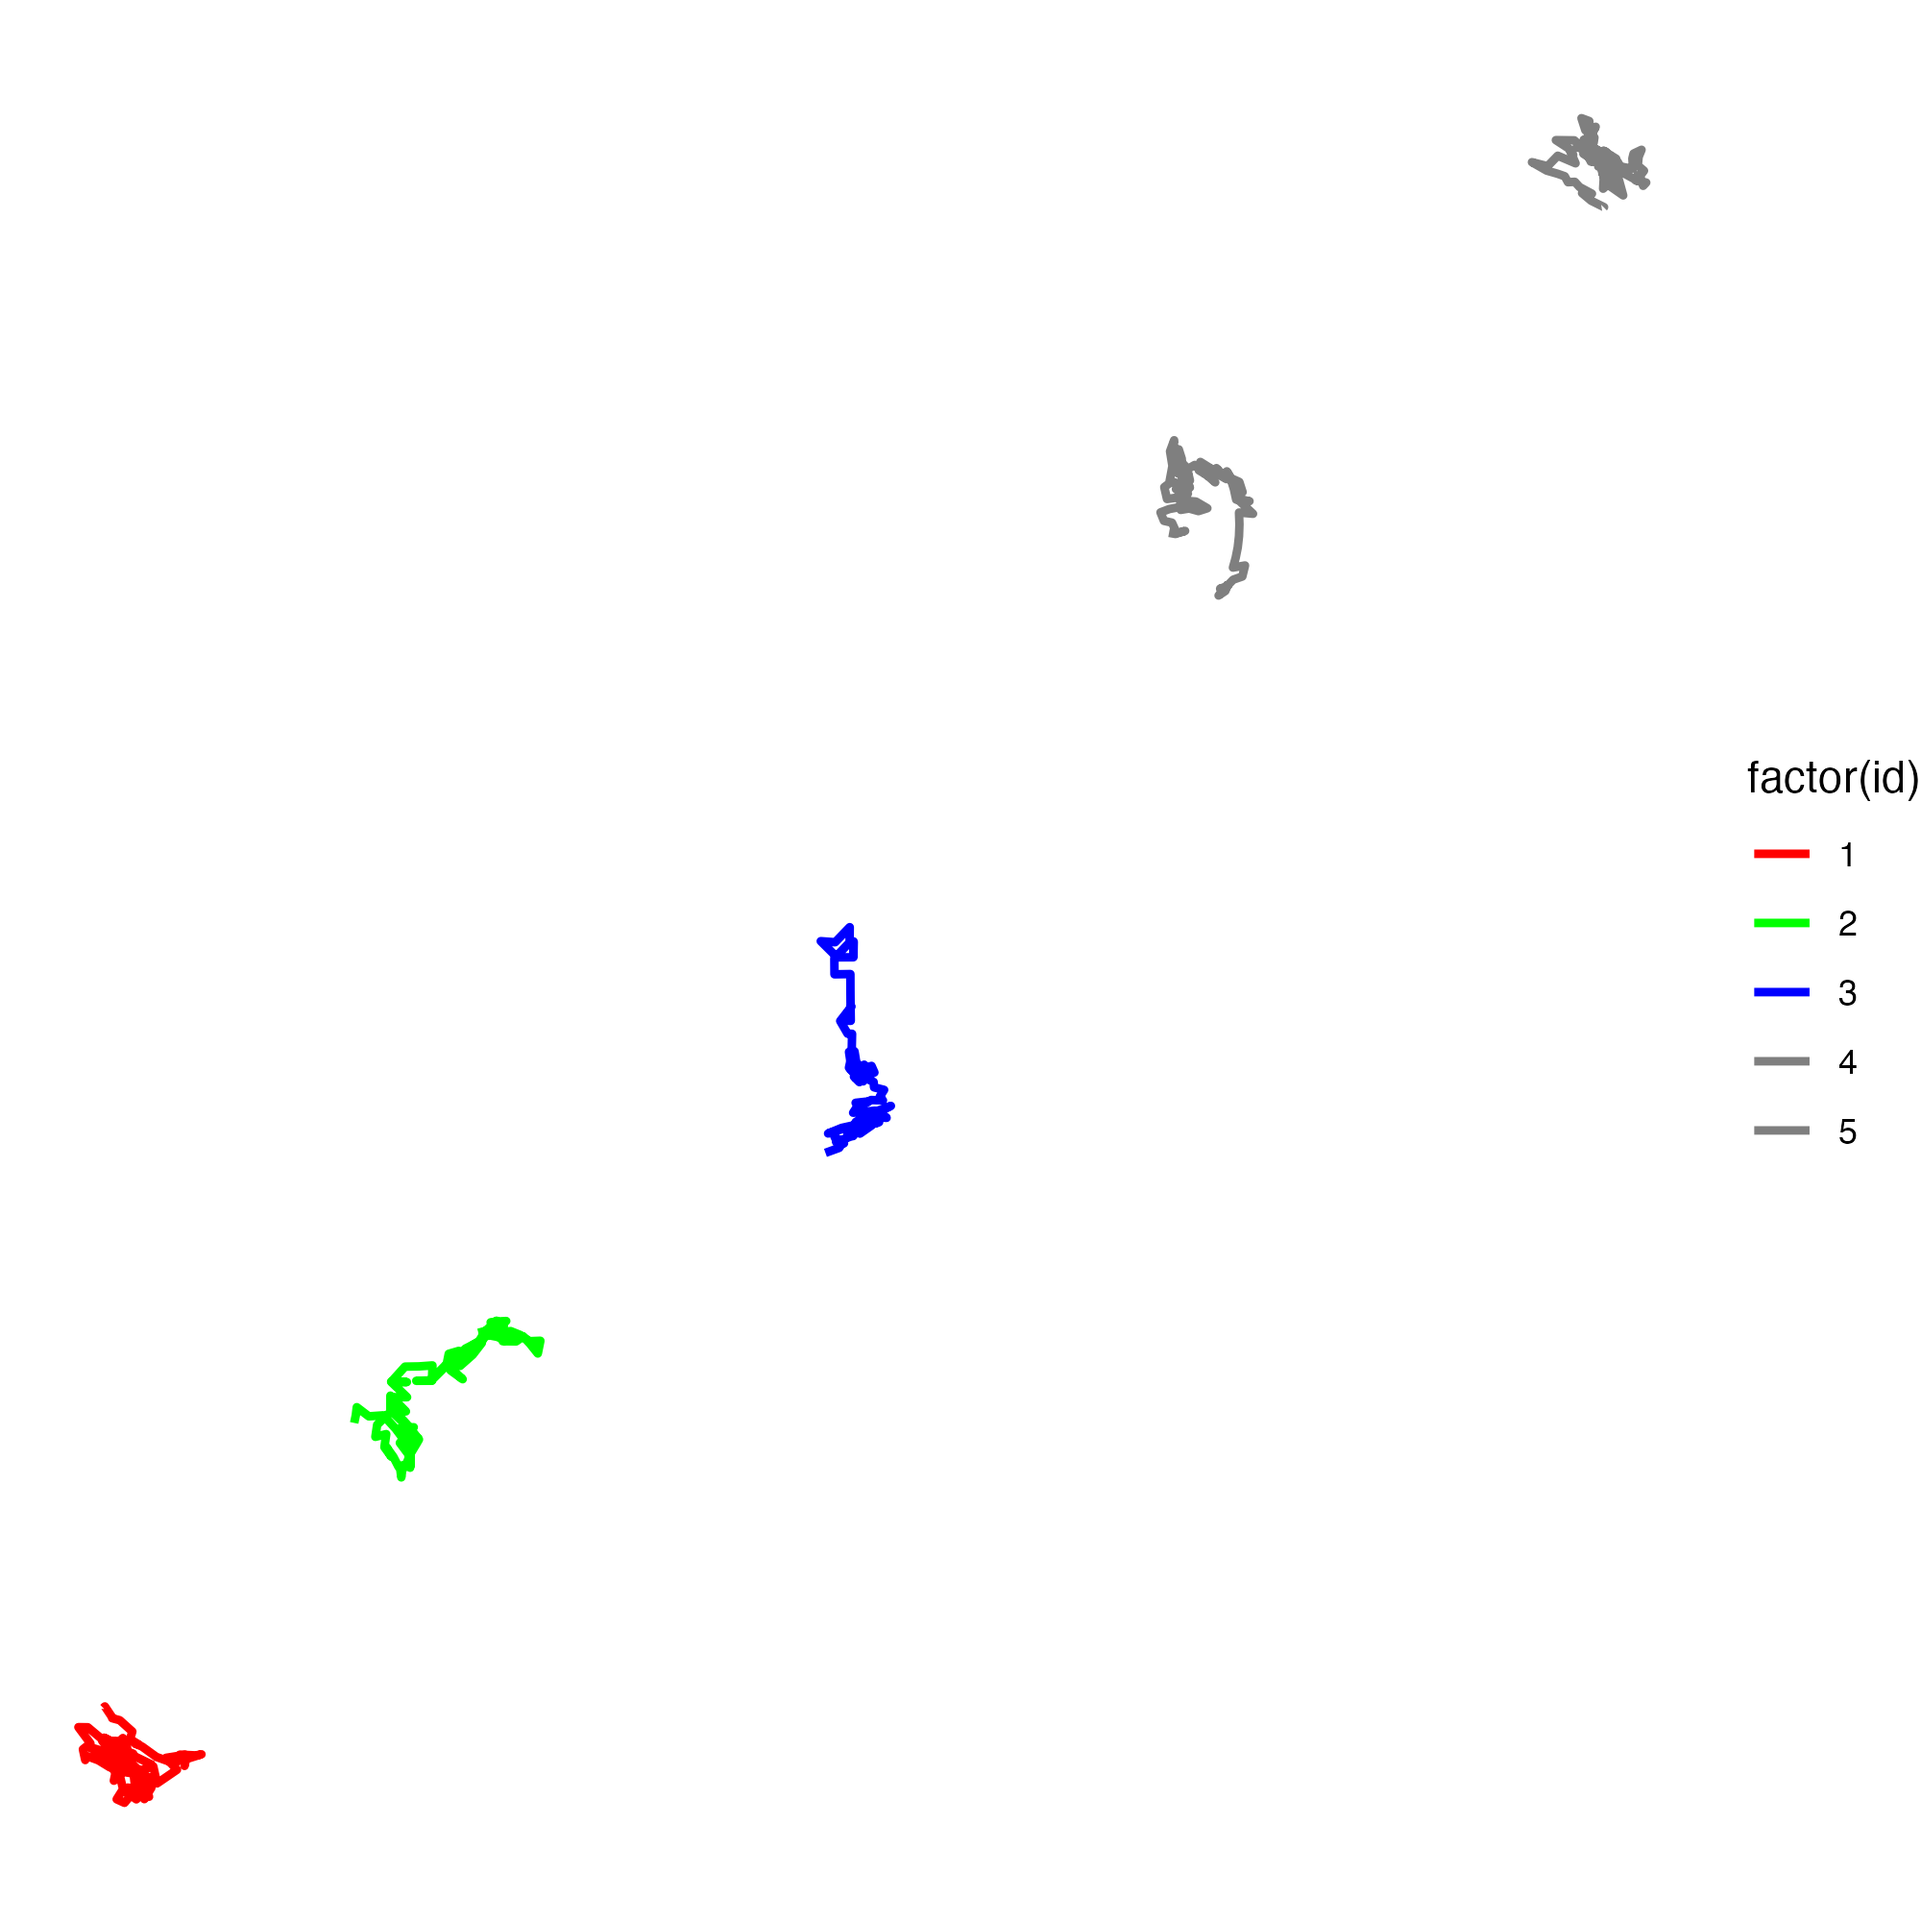
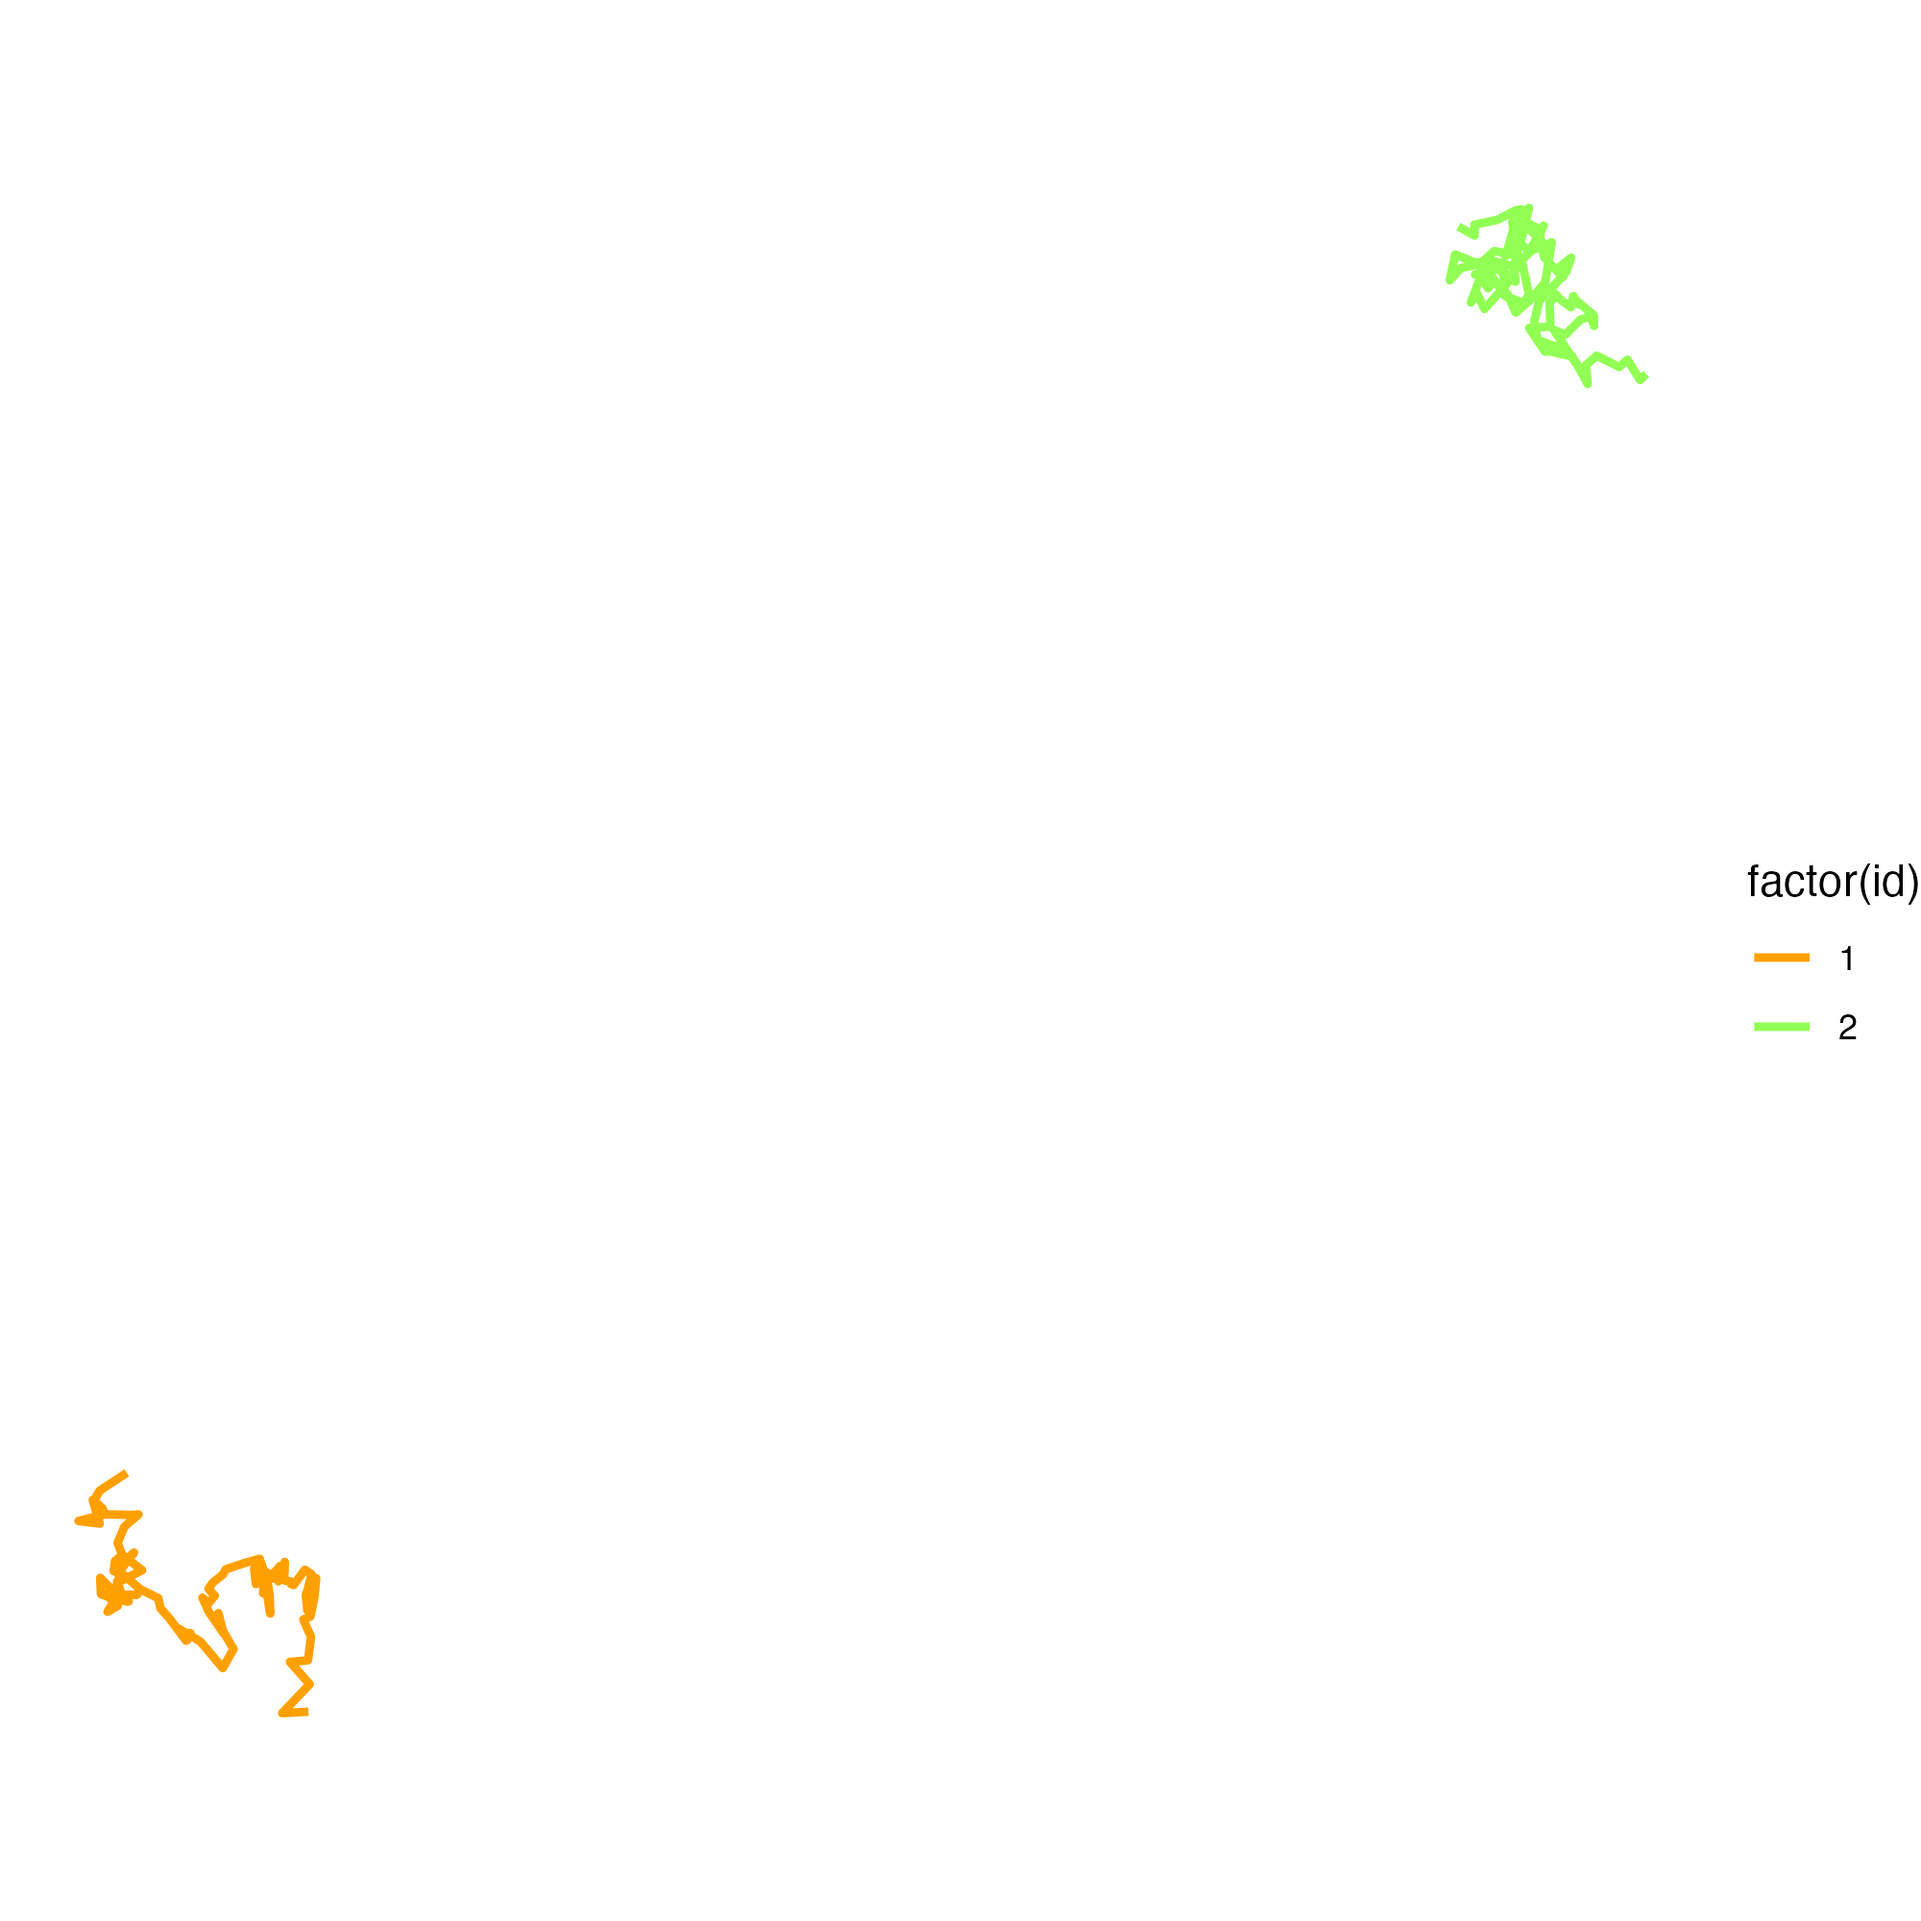
a bunch of updates to the exercises and adding them all into a quarto

diff --git a/materials/unbox-fast.cpp b/materials/unbox-fast.cpp
@@ -1,59 +1,84 @@
+
 #include <Rcpp.h>
 #include <iostream>
-using namespace Rcpp;
-using namespace std;
-
-// [[Rcpp::export]]
-NumericMatrix unboxer_rcpp(int iterations, int layers) {
+  using namespace Rcpp;
+  using namespace std;
   
-  // variables
-  NumericMatrix pts(iterations, 3); 
-  NumericMatrix cff(9, layers);
-  int r, f;
-  double x, y, z, s;
-  
-  // coefficients
-  for(int i = 0; i < 9; i++) {
-    for(int j = 0; j < layers; j++) {
-      cff(i,j) = R::runif(-1,1);
+  // [[Rcpp::export]]
+  NumericMatrix unboxer_grid(int iterations, 
+                             int layers,
+                             int pixels, 
+                             double border) {
+    
+    // variables
+    NumericMatrix image(pixels, pixels); 
+    NumericMatrix cff(9, layers);
+    int r, c, f, x_ind, y_ind;
+    double x, y, z, s;
+    
+    // set image matrix to zeros
+    for(int r = 0; r < pixels; r++) {
+      for(int c = 0; c < pixels; c++) {
+        image(c, r) = 0;
+      }
     }
-  }
-  
-  // initial point
-  pts(0, 0) = R::runif(-1, 1);
-  pts(0, 1) = R::runif(-1, 1);
-  pts(0, 2) = R::runif(-1, 1);
-  
-  // accumulate
-  for(int t = 1; t < iterations; t++) {
-    r = rand() % layers; // which transform to use?
+    
+    // coefficients
+    for(int i = 0; i < 9; i++) {
+      for(int j = 0; j < layers; j++) {
+        cff(i,j) = R::runif(-1,1);
+      }
+    }
+    
+    // values for initial state
+    double x_old = R::runif(-1, 1);
+    double y_old = R::runif(-1, 1);
+    double z_old = R::runif(-1, 1);
+    
+    // accumulate
+    for(int t = 1; t < iterations; t++) {
+      r = rand() % layers; // which transform to use?
       f = rand() % 3;      // which function to use?
-        
-        // apply transformation
-      x = cff(0, r) * pts(t-1, 0) + cff(1, r) * pts(t-1, 1) + cff(2, r);
-      y = cff(3, r) * pts(t-1, 0) + cff(4, r) * pts(t-1, 1) + cff(5, r);
-      z = cff(6, r) * pts(t-1, 0) + cff(7, r) * pts(t-1, 1) + cff(8, r);
+      
+      // apply transformation
+      x = cff(0, r) * x_old + cff(1, r) * y_old + cff(2, r);
+      y = cff(3, r) * x_old + cff(4, r) * y_old + cff(5, r);
+      z = cff(6, r) * x_old + cff(7, r) * y_old + cff(8, r);
       
       // apply function
       if(f == 0) {
         s = pow(x*x + y*y + z*z, 1/3);
         x = x + s;
         y = y + s;
-        z = z + s;
+        z = abs(z + s);
       } else if(f == 1) {
         x = sin(x);
         y = sin(y);
-        z = sin(z);
+        z = sin(z) + 1;
       } else {
         x = 2 * sin(x);
         y = 2 * sin(y);
-        z = 2 * sin(z);
+        z = 2 * (sin(z) + 1);
       }
       
-      // store new point
-      pts(t, 0) = x;
-      pts(t, 1) = y;
-      pts(t, 2) = (z + pts(t-1, 2))/2;
+      // compute indices to be updated
+      x_ind = int (x * pixels / (2 * border)) + pixels / 2;
+      y_ind = int (y * pixels / (2 * border)) + pixels / 2;
+      
+      // store results if they fall within the range
+      if(x_ind >= 0 & x_ind < pixels) {
+        if(y_ind >= 0 & y_ind < pixels) {
+          image(x_ind, y_ind) = z;
+        }
+      }
+      
+      // move new to old
+      x_old = x;
+      y_old = y;
+      z_old = (z + z_old) / 2; 
+    }
+    return image;
   }
-  return pts;
-}
+  
+    
+    
